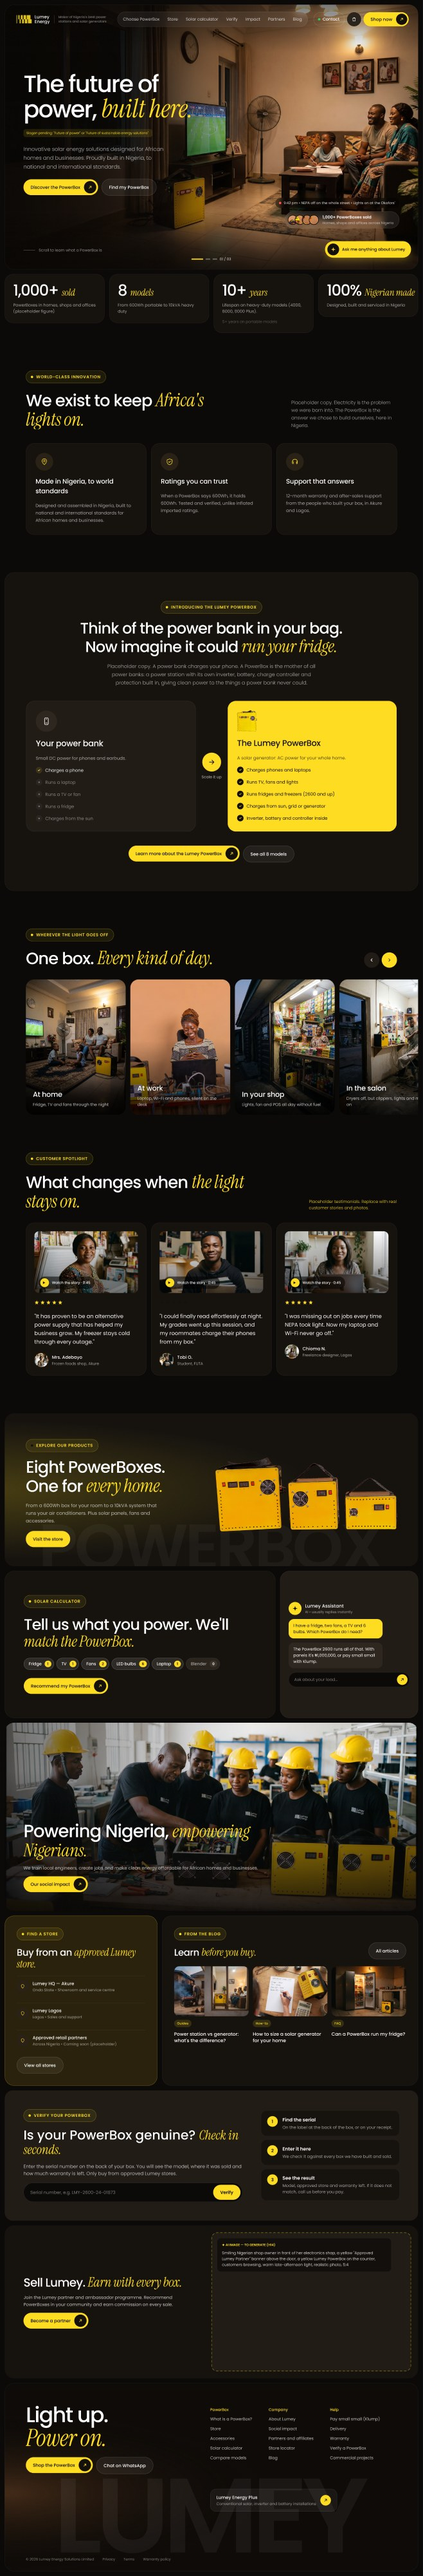
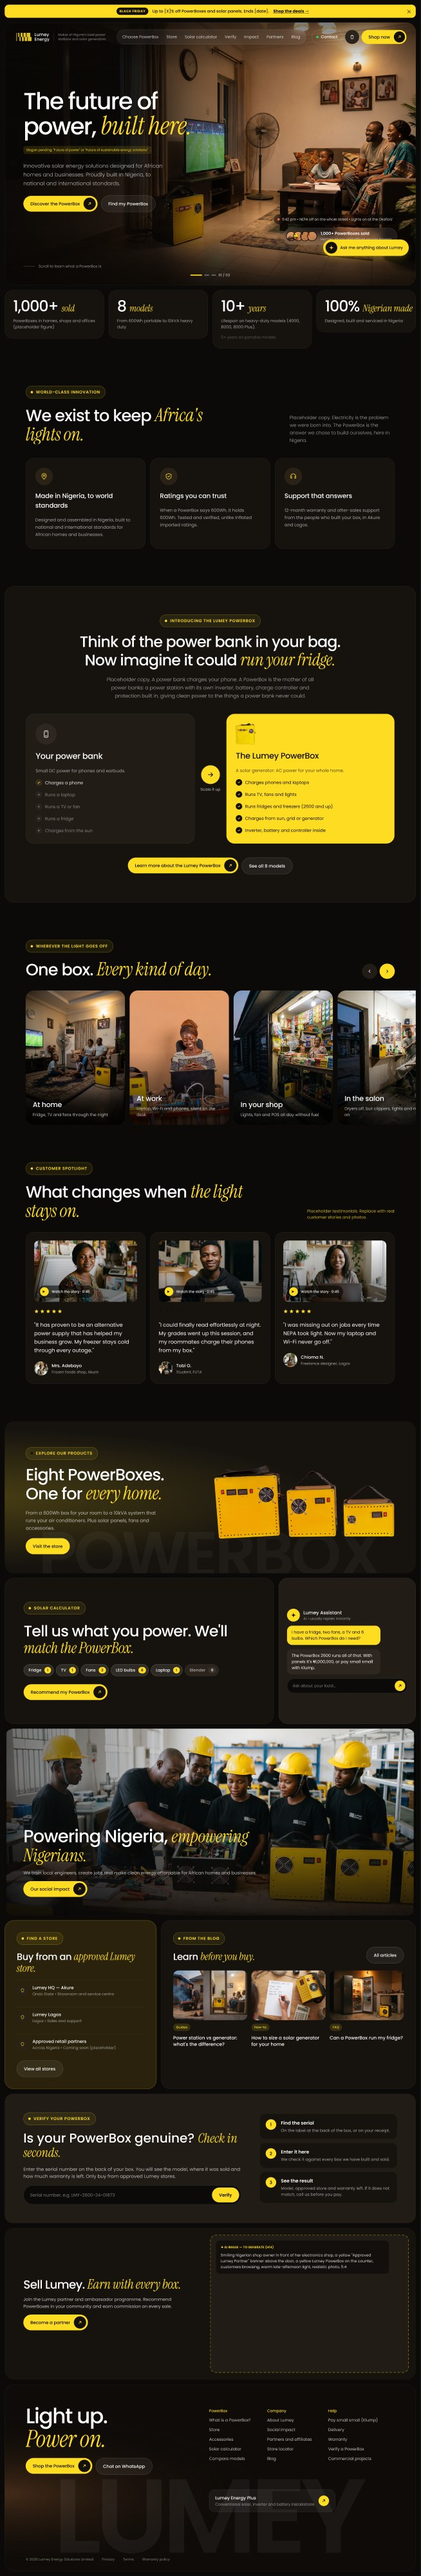
Add campaign announcement bar and campaign hero slide
Claude-Session: https://claude.ai/code/session_018Paxg3TNHJenuF2Ez91Xeu

diff --git a/design/v2-dark/README.md b/design/v2-dark/README.md
@@ -44,3 +44,8 @@ All 37 open comments were answered in Figma. Main changes:
 - Store: fully redesigned as a clean, category-led landing (`03-store.jpg`) plus a category page template (`03b-store-portable-powerboxes.jpg`). The previous Store frame is archived in Figma.
 - What is a PowerBox, Product, Checkout, Calculator and Blog: copy and layout fixes from the comments.
 - New AI image prompts (H1b, H1c, H14, W8) are at the end of `../ai-references/AI-IMAGE-PROMPTS.md`.
+
+## Campaigns and announcements (Black Friday example)
+
+- **Announcement bar** (Figma component "Announcement bar (site-wide, dismissible)"): a thin yellow bar above the menu on every page except checkout. Edit its Label, Message and Link properties for each campaign; hide it when nothing is running.
+- **Campaign hero slide** (`01-home-campaign-slide.jpg`): goes first in the homepage hero carousel while a campaign runs, then is removed. `[X]%` and dates are placeholders for the real offer.
